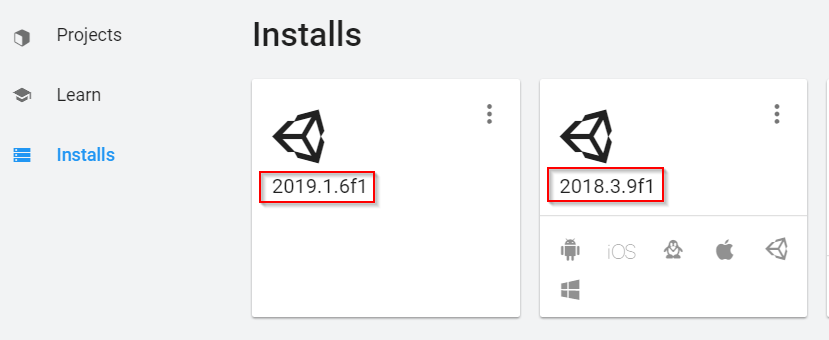
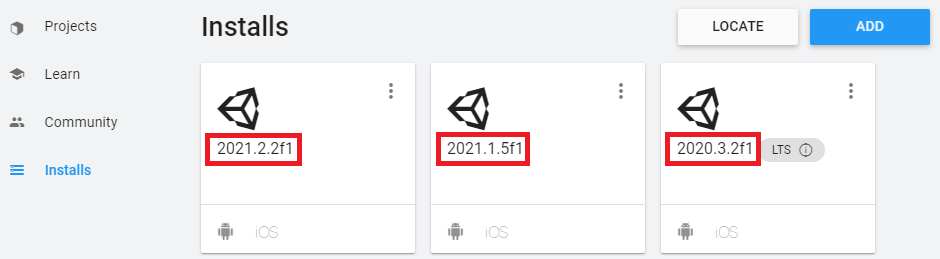
Updated README images and alt text
- unity-versions.png shows more recent Unity versions
- unity-modules-docs.png now hides the Unity version in the docs, so we don't need to update it to make it look recent

diff --git a/README.md b/README.md
@@ -69,7 +69,7 @@ Thus, here at Derploid Entertainment, we created the `Unity3D` package with the 
 
 As shown in the basic example above, our package only requires a `UnityVersion` property to be up and running. `UnityVersion` must be a complete version string, in the format used by Unity Hub (the values boxed in red in the screenshot below).
 
-![Unity version strings highlighted in the Unity Hub interface. For example, "2019.1.6f1"](./images/unity-versions.png)
+![Unity version strings highlighted in the Unity Hub interface](./images/unity-versions.png)
 
 To edit a project file in Visual Studio:
 
